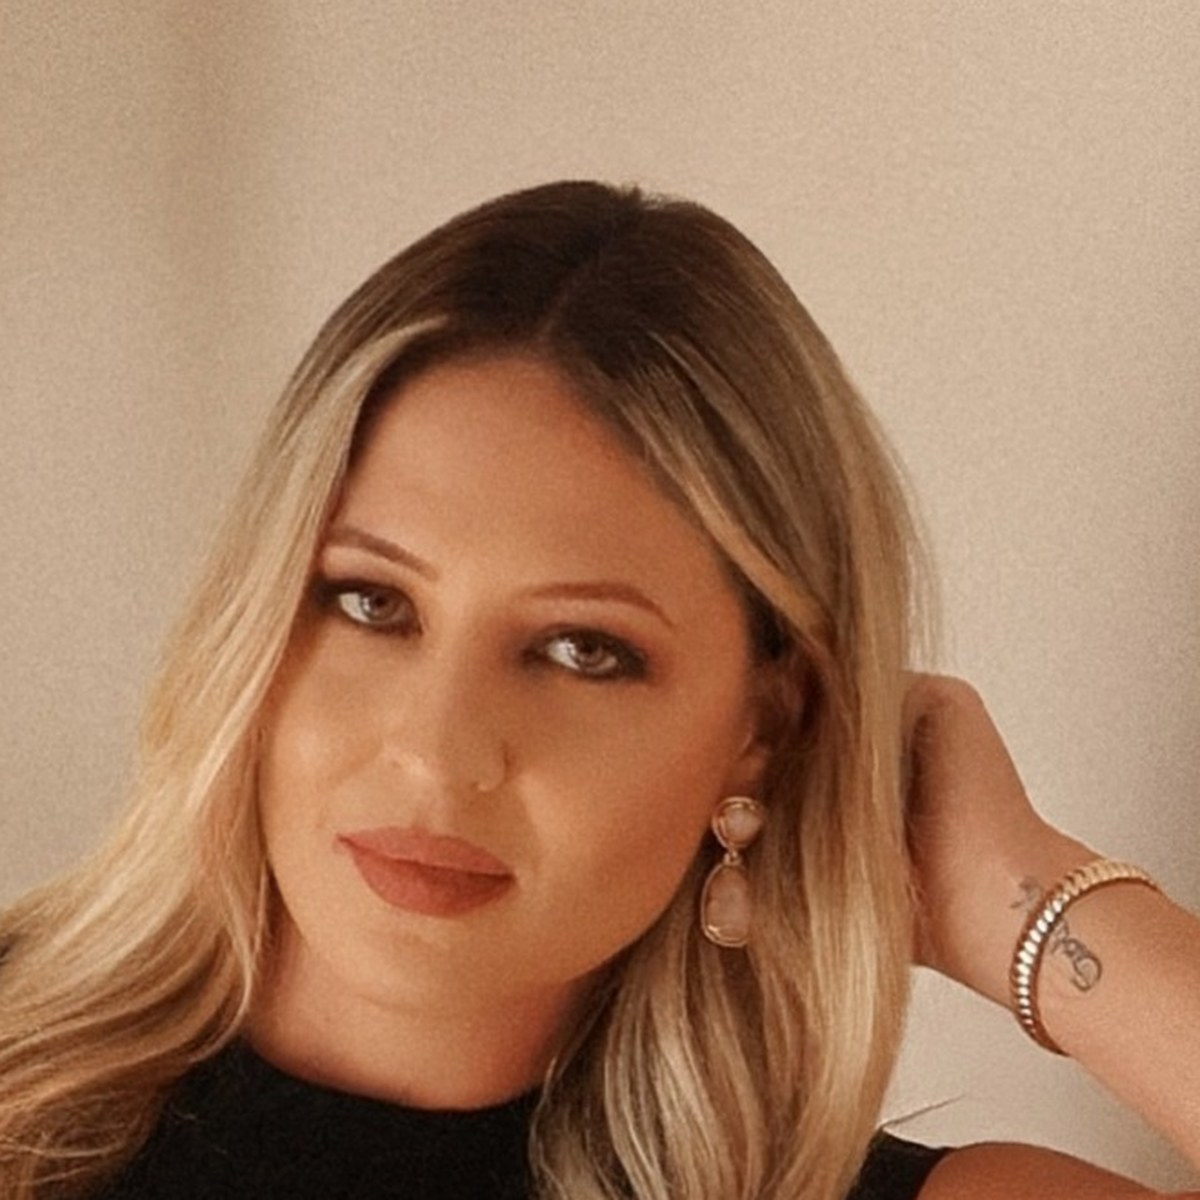
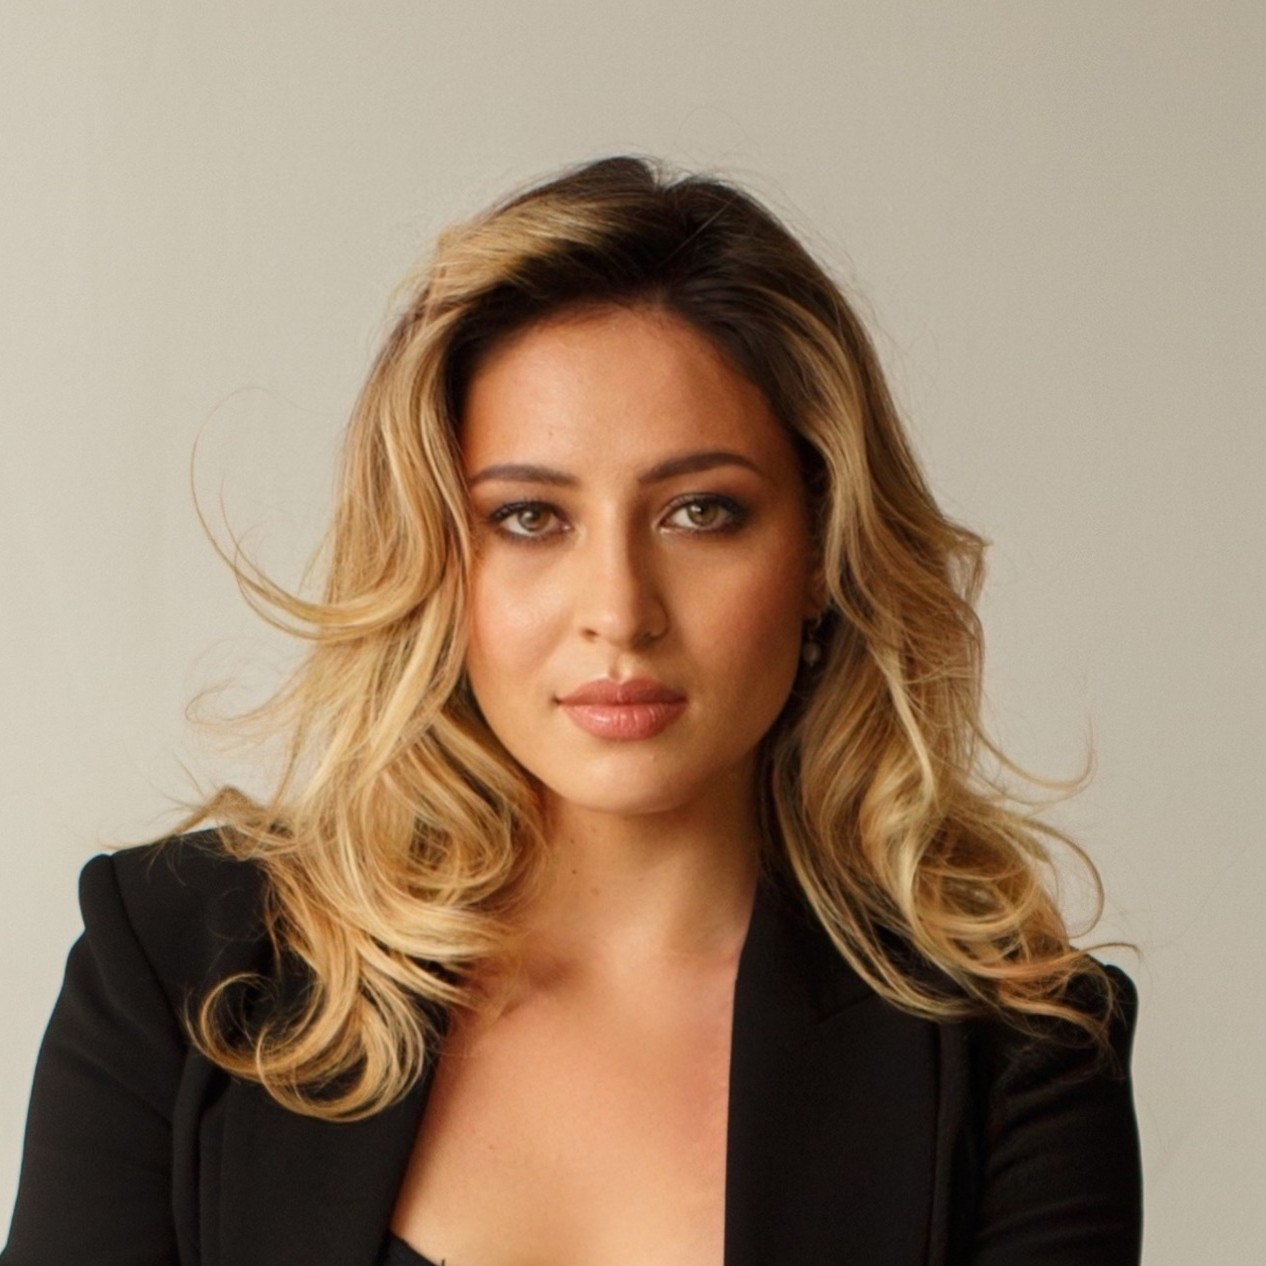
My Philosophy circular photo: use the same photo as the About page for now
Placeholder until Alina uploads a different close-up. Bump IMG_VERSION to 4.

Claude-Session: https://claude.ai/code/session_0124BF4xHjLVZTi4SghQuuDj

diff --git a/index.html b/index.html
@@ -10,7 +10,7 @@
 <meta property="og:description" content="Depth-oriented virtual psychotherapy for high achievers — executives, entrepreneurs, creatives, and professional athletes. Licensed clinical psychologist in Florida & New York." />
 <meta property="og:type" content="website" />
 <meta property="og:url" content="https://www.dralinaschulhofer.com/" />
-<meta property="og:image" content="https://www.dralinaschulhofer.com/assets/portrait-about.jpg?v=3" />
+<meta property="og:image" content="https://www.dralinaschulhofer.com/assets/portrait-about.jpg?v=4" />
 <meta name="twitter:card" content="summary_large_image" />
 <link rel="preconnect" href="https://fonts.googleapis.com"><link rel="preconnect" href="https://fonts.gstatic.com" crossorigin><link href="https://fonts.googleapis.com/css2?family=Alex+Brush&family=Cormorant+Garamond:ital,wght@0,400;0,500;1,400&family=Jost:wght@300;500&display=swap" rel="stylesheet">
 <link rel="stylesheet" href="styles.css?v=34" />
@@ -52,7 +52,7 @@
         </div>
       </div>
       <div class="eh-photo" aria-hidden="true">
-        <img src="assets/portrait-about.jpg?v=3" alt="" />
+        <img src="assets/portrait-about.jpg?v=4" alt="" />
       </div>
     </div>
     <hr class="eh-divider" />
@@ -82,7 +82,7 @@
   <section class="philosophy-band">
     <div class="container">
       <div class="trust3">
-        <div class="tphoto"><img src="assets/portrait-circle.jpg?v=3" alt="Dr. Alina Schulhofer" /></div>
+        <div class="tphoto"><img src="assets/portrait-circle.jpg?v=4" alt="Dr. Alina Schulhofer" /></div>
         <div class="prose trust3-body">
           <h2 class="trust-head" style="margin-bottom:34px;">My Philosophy</h2>
           <p>My approach is relational psychoanalytic in nature, a perspective that informs all aspects of my work. Whether in therapy, coaching, or consulting, I believe meaningful growth begins with a deeper understanding of ourselves: the experiences that have shaped us, our patterns, the ways we relate to ourselves and others, and the unconscious forces that influence how we see and navigate the world.</p>

diff --git a/about.html b/about.html
@@ -10,7 +10,7 @@
 <meta property="og:description" content="Meet Dr. Alina Schulhofer, PsyD — a licensed clinical psychologist offering depth-oriented virtual therapy for high performers in Florida and New York." />
 <meta property="og:type" content="website" />
 <meta property="og:url" content="https://www.dralinaschulhofer.com/about.html" />
-<meta property="og:image" content="https://www.dralinaschulhofer.com/assets/portrait-about.jpg?v=3" />
+<meta property="og:image" content="https://www.dralinaschulhofer.com/assets/portrait-about.jpg?v=4" />
 <meta name="twitter:card" content="summary_large_image" />
 <link rel="preconnect" href="https://fonts.googleapis.com"><link rel="preconnect" href="https://fonts.gstatic.com" crossorigin><link href="https://fonts.googleapis.com/css2?family=Alex+Brush&family=Cormorant+Garamond:ital,wght@0,400;0,500;1,400&family=Jost:wght@300;500&display=swap" rel="stylesheet">
 <link rel="stylesheet" href="styles.css?v=34" />
@@ -46,7 +46,7 @@
         <h1 style="font-size:54px;margin:12px 0 10px;">Dr. Alina Schulhofer</h1>
         <p class="sub">Licensed Clinical Psychologist · Florida &amp; New York</p>
       </div>
-      <img class="about-face" src="assets/face.jpg?v=3" alt="Dr. Alina Schulhofer" />
+      <img class="about-face" src="assets/face.jpg?v=4" alt="Dr. Alina Schulhofer" />
     </div>
   </section>
   <section class="section" style="padding-top:14px;">

diff --git a/difficult-relationships-are-our-teachers.html b/difficult-relationships-are-our-teachers.html
@@ -9,7 +9,7 @@
 <meta property="og:title" content="Why Our Most Difficult Relationships Are Our Greatest Teachers — Dr. Alina Schulhofer" />
 <meta property="og:description" content="Why do we keep finding ourselves in the same emotional dynamic with different people? Transference and repetition compulsion suggest our most painful relationships may be trying to teach us something about ourselves." />
 <meta property="og:url" content="https://www.dralinaschulhofer.com/difficult-relationships-are-our-teachers.html" />
-<meta property="og:image" content="https://www.dralinaschulhofer.com/assets/portrait-about.jpg?v=3" />
+<meta property="og:image" content="https://www.dralinaschulhofer.com/assets/portrait-about.jpg?v=4" />
 <meta name="twitter:card" content="summary_large_image" />
 <link rel="preconnect" href="https://fonts.googleapis.com"><link rel="preconnect" href="https://fonts.gstatic.com" crossorigin><link href="https://fonts.googleapis.com/css2?family=Alex+Brush&family=Cormorant+Garamond:ital,wght@0,400;0,500;1,400&family=Jost:wght@300;500&display=swap" rel="stylesheet">
 <link rel="stylesheet" href="styles.css?v=34" />

diff --git a/neurodivergence-and-high-performance.html b/neurodivergence-and-high-performance.html
@@ -9,7 +9,7 @@
 <meta property="og:title" content="Understanding the Gifts (and Challenges) of Neurodivergence in High Performance — Dr. Alina Schulhofer" />
 <meta property="og:description" content="Many of the traits that drive excellence — creativity, hyperfocus, pattern recognition — are often associated with neurodivergent wiring. Accurate diagnosis matters more than pop-culture labels." />
 <meta property="og:url" content="https://www.dralinaschulhofer.com/neurodivergence-and-high-performance.html" />
-<meta property="og:image" content="https://www.dralinaschulhofer.com/assets/portrait-about.jpg?v=3" />
+<meta property="og:image" content="https://www.dralinaschulhofer.com/assets/portrait-about.jpg?v=4" />
 <meta name="twitter:card" content="summary_large_image" />
 <link rel="preconnect" href="https://fonts.googleapis.com"><link rel="preconnect" href="https://fonts.gstatic.com" crossorigin><link href="https://fonts.googleapis.com/css2?family=Alex+Brush&family=Cormorant+Garamond:ital,wght@0,400;0,500;1,400&family=Jost:wght@300;500&display=swap" rel="stylesheet">
 <link rel="stylesheet" href="styles.css?v=34" />

diff --git a/adaptability-and-the-danger-of-tradition.html b/adaptability-and-the-danger-of-tradition.html
@@ -9,7 +9,7 @@
 <meta property="og:title" content="On Adaptability and the Danger of Doing Things Because &quot;It&#x27;s What We&#x27;ve Always Done&quot; — Dr. Alina Schulhofer" />
 <meta property="og:description" content="Rigid plans feel safe, but real adaptability — the emotional capacity to sit with not knowing — is often what separates lasting success from stagnation." />
 <meta property="og:url" content="https://www.dralinaschulhofer.com/adaptability-and-the-danger-of-tradition.html" />
-<meta property="og:image" content="https://www.dralinaschulhofer.com/assets/portrait-about.jpg?v=3" />
+<meta property="og:image" content="https://www.dralinaschulhofer.com/assets/portrait-about.jpg?v=4" />
 <meta name="twitter:card" content="summary_large_image" />
 <link rel="preconnect" href="https://fonts.googleapis.com"><link rel="preconnect" href="https://fonts.gstatic.com" crossorigin><link href="https://fonts.googleapis.com/css2?family=Alex+Brush&family=Cormorant+Garamond:ital,wght@0,400;0,500;1,400&family=Jost:wght@300;500&display=swap" rel="stylesheet">
 <link rel="stylesheet" href="styles.css?v=34" />

diff --git a/why-high-performers-resist-inner-work.html b/why-high-performers-resist-inner-work.html
@@ -9,7 +9,7 @@
 <meta property="og:title" content="Why High Performers Resist Deep Inner Work — And Why That Resistance Is Holding Them Back — Dr. Alina Schulhofer" />
 <meta property="og:description" content="Many high performers resist deep emotional work for fear of falling apart — but that avoidance may be exactly what’s holding them back from their greatest potential." />
 <meta property="og:url" content="https://www.dralinaschulhofer.com/why-high-performers-resist-inner-work.html" />
-<meta property="og:image" content="https://www.dralinaschulhofer.com/assets/portrait-about.jpg?v=3" />
+<meta property="og:image" content="https://www.dralinaschulhofer.com/assets/portrait-about.jpg?v=4" />
 <meta name="twitter:card" content="summary_large_image" />
 <link rel="preconnect" href="https://fonts.googleapis.com"><link rel="preconnect" href="https://fonts.gstatic.com" crossorigin><link href="https://fonts.googleapis.com/css2?family=Alex+Brush&family=Cormorant+Garamond:ital,wght@0,400;0,500;1,400&family=Jost:wght@300;500&display=swap" rel="stylesheet">
 <link rel="stylesheet" href="styles.css?v=34" />

diff --git a/pursuer-withdrawer-dynamic.html b/pursuer-withdrawer-dynamic.html
@@ -9,7 +9,7 @@
 <meta property="og:title" content="The Pursuer-Withdrawer Dynamic: Why One Partner Chases and the Other Runs Away — Dr. Alina Schulhofer" />
 <meta property="og:description" content="One partner pursues closeness while the other pulls away — a common, self-reinforcing cycle rooted in fear rather than a lack of love, and one that couples therapy can help make visible." />
 <meta property="og:url" content="https://www.dralinaschulhofer.com/pursuer-withdrawer-dynamic.html" />
-<meta property="og:image" content="https://www.dralinaschulhofer.com/assets/portrait-about.jpg?v=3" />
+<meta property="og:image" content="https://www.dralinaschulhofer.com/assets/portrait-about.jpg?v=4" />
 <meta name="twitter:card" content="summary_large_image" />
 <link rel="preconnect" href="https://fonts.googleapis.com"><link rel="preconnect" href="https://fonts.gstatic.com" crossorigin><link href="https://fonts.googleapis.com/css2?family=Alex+Brush&family=Cormorant+Garamond:ital,wght@0,400;0,500;1,400&family=Jost:wght@300;500&display=swap" rel="stylesheet">
 <link rel="stylesheet" href="styles.css?v=34" />

diff --git a/executive-coaching-improves-leadership.html b/executive-coaching-improves-leadership.html
@@ -9,7 +9,7 @@
 <meta property="og:title" content="5 Ways Executive Coaching Can Actually Improve Your Leadership Skills — Dr. Alina Schulhofer" />
 <meta property="og:description" content="Executive coaching isn’t only remedial — it’s preventative, helping leaders build the inner foundation for long-term resilience before a crisis ever manifests." />
 <meta property="og:url" content="https://www.dralinaschulhofer.com/executive-coaching-improves-leadership.html" />
-<meta property="og:image" content="https://www.dralinaschulhofer.com/assets/portrait-about.jpg?v=3" />
+<meta property="og:image" content="https://www.dralinaschulhofer.com/assets/portrait-about.jpg?v=4" />
 <meta name="twitter:card" content="summary_large_image" />
 <link rel="preconnect" href="https://fonts.googleapis.com"><link rel="preconnect" href="https://fonts.gstatic.com" crossorigin><link href="https://fonts.googleapis.com/css2?family=Alex+Brush&family=Cormorant+Garamond:ital,wght@0,400;0,500;1,400&family=Jost:wght@300;500&display=swap" rel="stylesheet">
 <link rel="stylesheet" href="styles.css?v=34" />

diff --git a/why-we-cant-let-go-trauma-bonds.html b/why-we-cant-let-go-trauma-bonds.html
@@ -9,7 +9,7 @@
 <meta property="og:title" content="Why We Can’t Let Go: The Psychology of Trauma Bonds — Dr. Alina Schulhofer" />
 <meta property="og:description" content="The mind knows a relationship is unhealthy, yet the ache of longing remains — trauma bonds are rooted in early attachment wounds and the unconscious pull toward what feels most familiar." />
 <meta property="og:url" content="https://www.dralinaschulhofer.com/why-we-cant-let-go-trauma-bonds.html" />
-<meta property="og:image" content="https://www.dralinaschulhofer.com/assets/portrait-about.jpg?v=3" />
+<meta property="og:image" content="https://www.dralinaschulhofer.com/assets/portrait-about.jpg?v=4" />
 <meta name="twitter:card" content="summary_large_image" />
 <link rel="preconnect" href="https://fonts.googleapis.com"><link rel="preconnect" href="https://fonts.gstatic.com" crossorigin><link href="https://fonts.googleapis.com/css2?family=Alex+Brush&family=Cormorant+Garamond:ital,wght@0,400;0,500;1,400&family=Jost:wght@300;500&display=swap" rel="stylesheet">
 <link rel="stylesheet" href="styles.css?v=34" />

diff --git a/reached-out-but-never-scheduled.html b/reached-out-but-never-scheduled.html
@@ -9,7 +9,7 @@
 <meta property="og:title" content="Why You Reached Out for Help... But Never Scheduled the First Session — Dr. Alina Schulhofer" />
 <meta property="og:description" content="For many high performers, reaching out is the easy part — actually showing up for the first session requires a kind of vulnerability that feels unfamiliar, even risky." />
 <meta property="og:url" content="https://www.dralinaschulhofer.com/reached-out-but-never-scheduled.html" />
-<meta property="og:image" content="https://www.dralinaschulhofer.com/assets/portrait-about.jpg?v=3" />
+<meta property="og:image" content="https://www.dralinaschulhofer.com/assets/portrait-about.jpg?v=4" />
 <meta name="twitter:card" content="summary_large_image" />
 <link rel="preconnect" href="https://fonts.googleapis.com"><link rel="preconnect" href="https://fonts.gstatic.com" crossorigin><link href="https://fonts.googleapis.com/css2?family=Alex+Brush&family=Cormorant+Garamond:ital,wght@0,400;0,500;1,400&family=Jost:wght@300;500&display=swap" rel="stylesheet">
 <link rel="stylesheet" href="styles.css?v=34" />

diff --git a/sex-replacing-emotional-connection.html b/sex-replacing-emotional-connection.html
@@ -9,7 +9,7 @@
 <meta property="og:title" content="Is Sex Replacing Emotional Connection in Your Relationships? — Dr. Alina Schulhofer" />
 <meta property="og:description" content="Sexual closeness can become a substitute for emotional closeness rather than an extension of it — leaving physical intimacy feeling intense, yet still empty or alone." />
 <meta property="og:url" content="https://www.dralinaschulhofer.com/sex-replacing-emotional-connection.html" />
-<meta property="og:image" content="https://www.dralinaschulhofer.com/assets/portrait-about.jpg?v=3" />
+<meta property="og:image" content="https://www.dralinaschulhofer.com/assets/portrait-about.jpg?v=4" />
 <meta name="twitter:card" content="summary_large_image" />
 <link rel="preconnect" href="https://fonts.googleapis.com"><link rel="preconnect" href="https://fonts.gstatic.com" crossorigin><link href="https://fonts.googleapis.com/css2?family=Alex+Brush&family=Cormorant+Garamond:ital,wght@0,400;0,500;1,400&family=Jost:wght@300;500&display=swap" rel="stylesheet">
 <link rel="stylesheet" href="styles.css?v=34" />

diff --git a/feelings-toward-your-therapist.html b/feelings-toward-your-therapist.html
@@ -9,7 +9,7 @@
 <meta property="og:title" content="Why Your Feelings Toward Your Therapist Are Worth Talking About — Dr. Alina Schulhofer" />
 <meta property="og:description" content="Feelings about your therapist — attachment, fear of judgment, even frustration — aren’t a distraction from the work. They’re often the doorway to it." />
 <meta property="og:url" content="https://www.dralinaschulhofer.com/feelings-toward-your-therapist.html" />
-<meta property="og:image" content="https://www.dralinaschulhofer.com/assets/portrait-about.jpg?v=3" />
+<meta property="og:image" content="https://www.dralinaschulhofer.com/assets/portrait-about.jpg?v=4" />
 <meta name="twitter:card" content="summary_large_image" />
 <link rel="preconnect" href="https://fonts.googleapis.com"><link rel="preconnect" href="https://fonts.gstatic.com" crossorigin><link href="https://fonts.googleapis.com/css2?family=Alex+Brush&family=Cormorant+Garamond:ital,wght@0,400;0,500;1,400&family=Jost:wght@300;500&display=swap" rel="stylesheet">
 <link rel="stylesheet" href="styles.css?v=34" />
